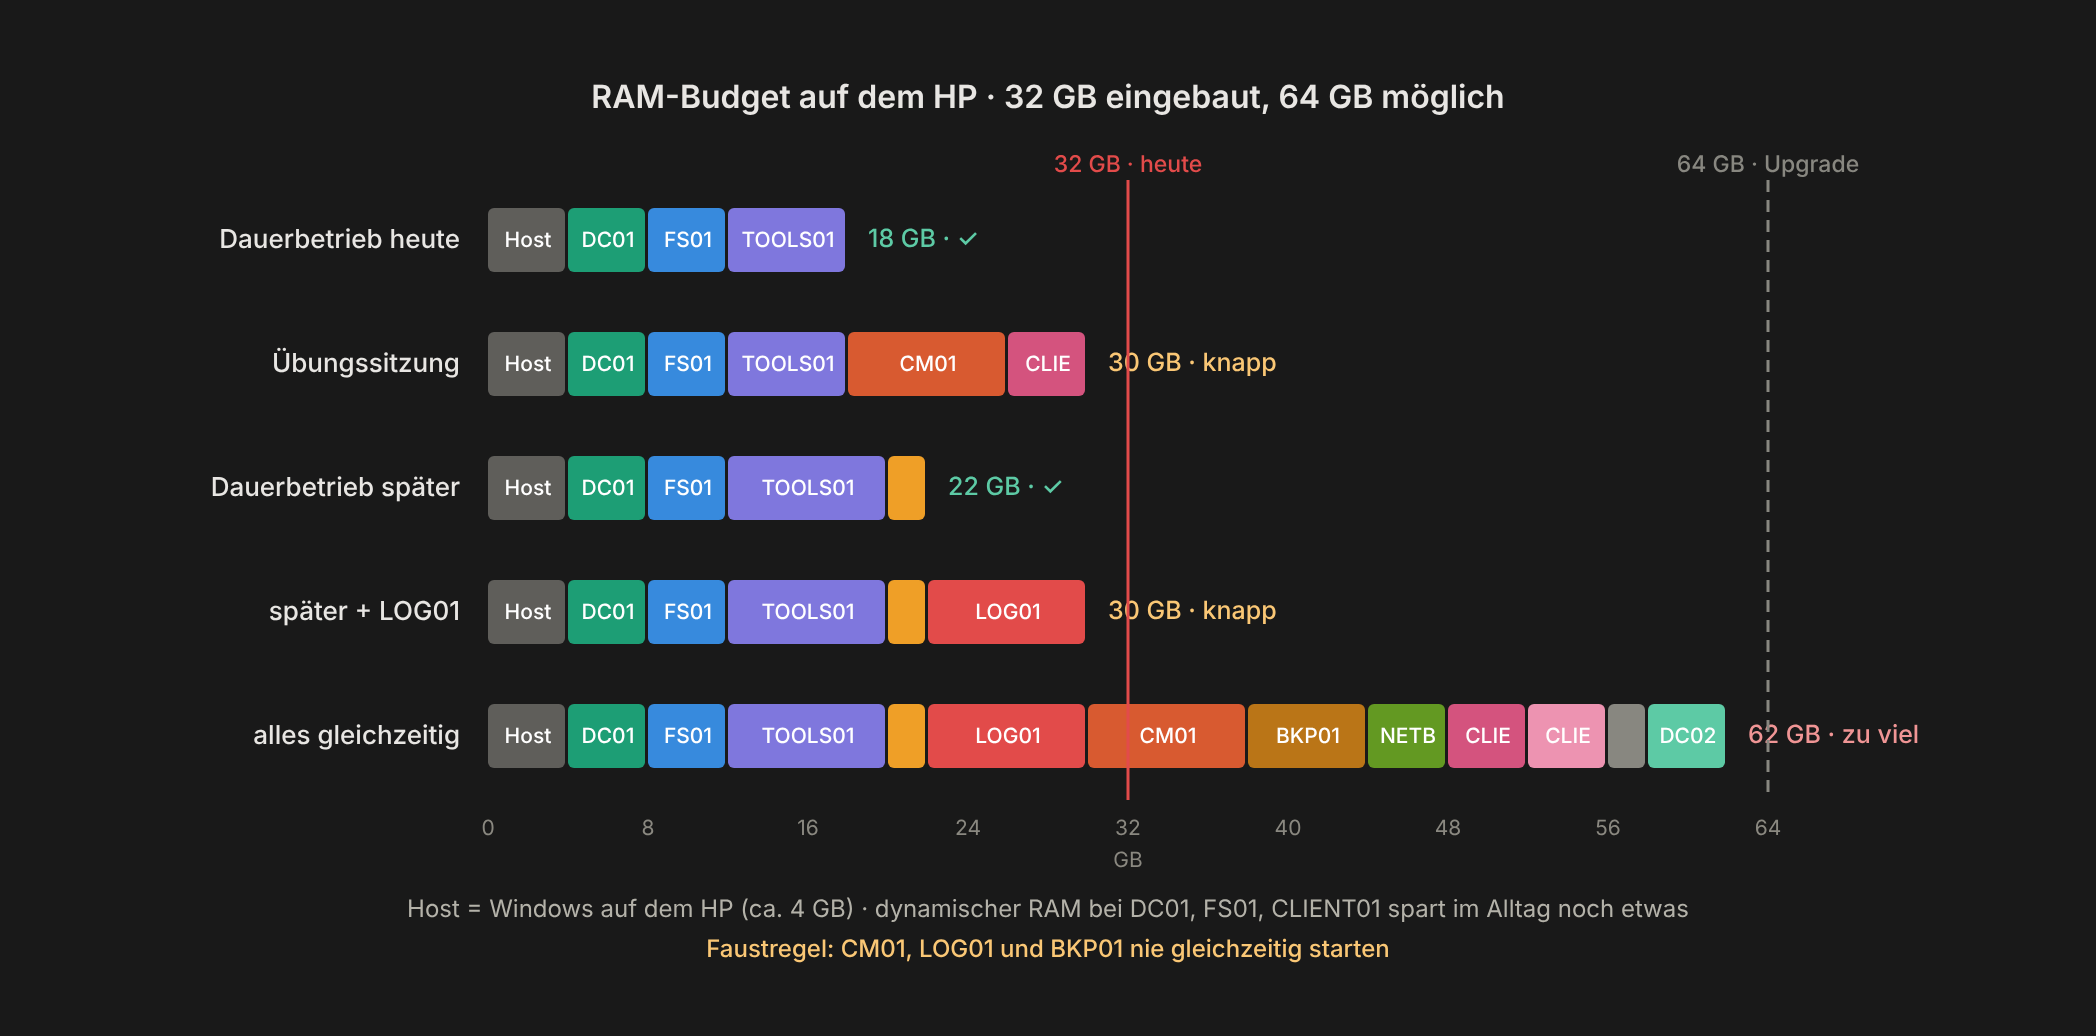
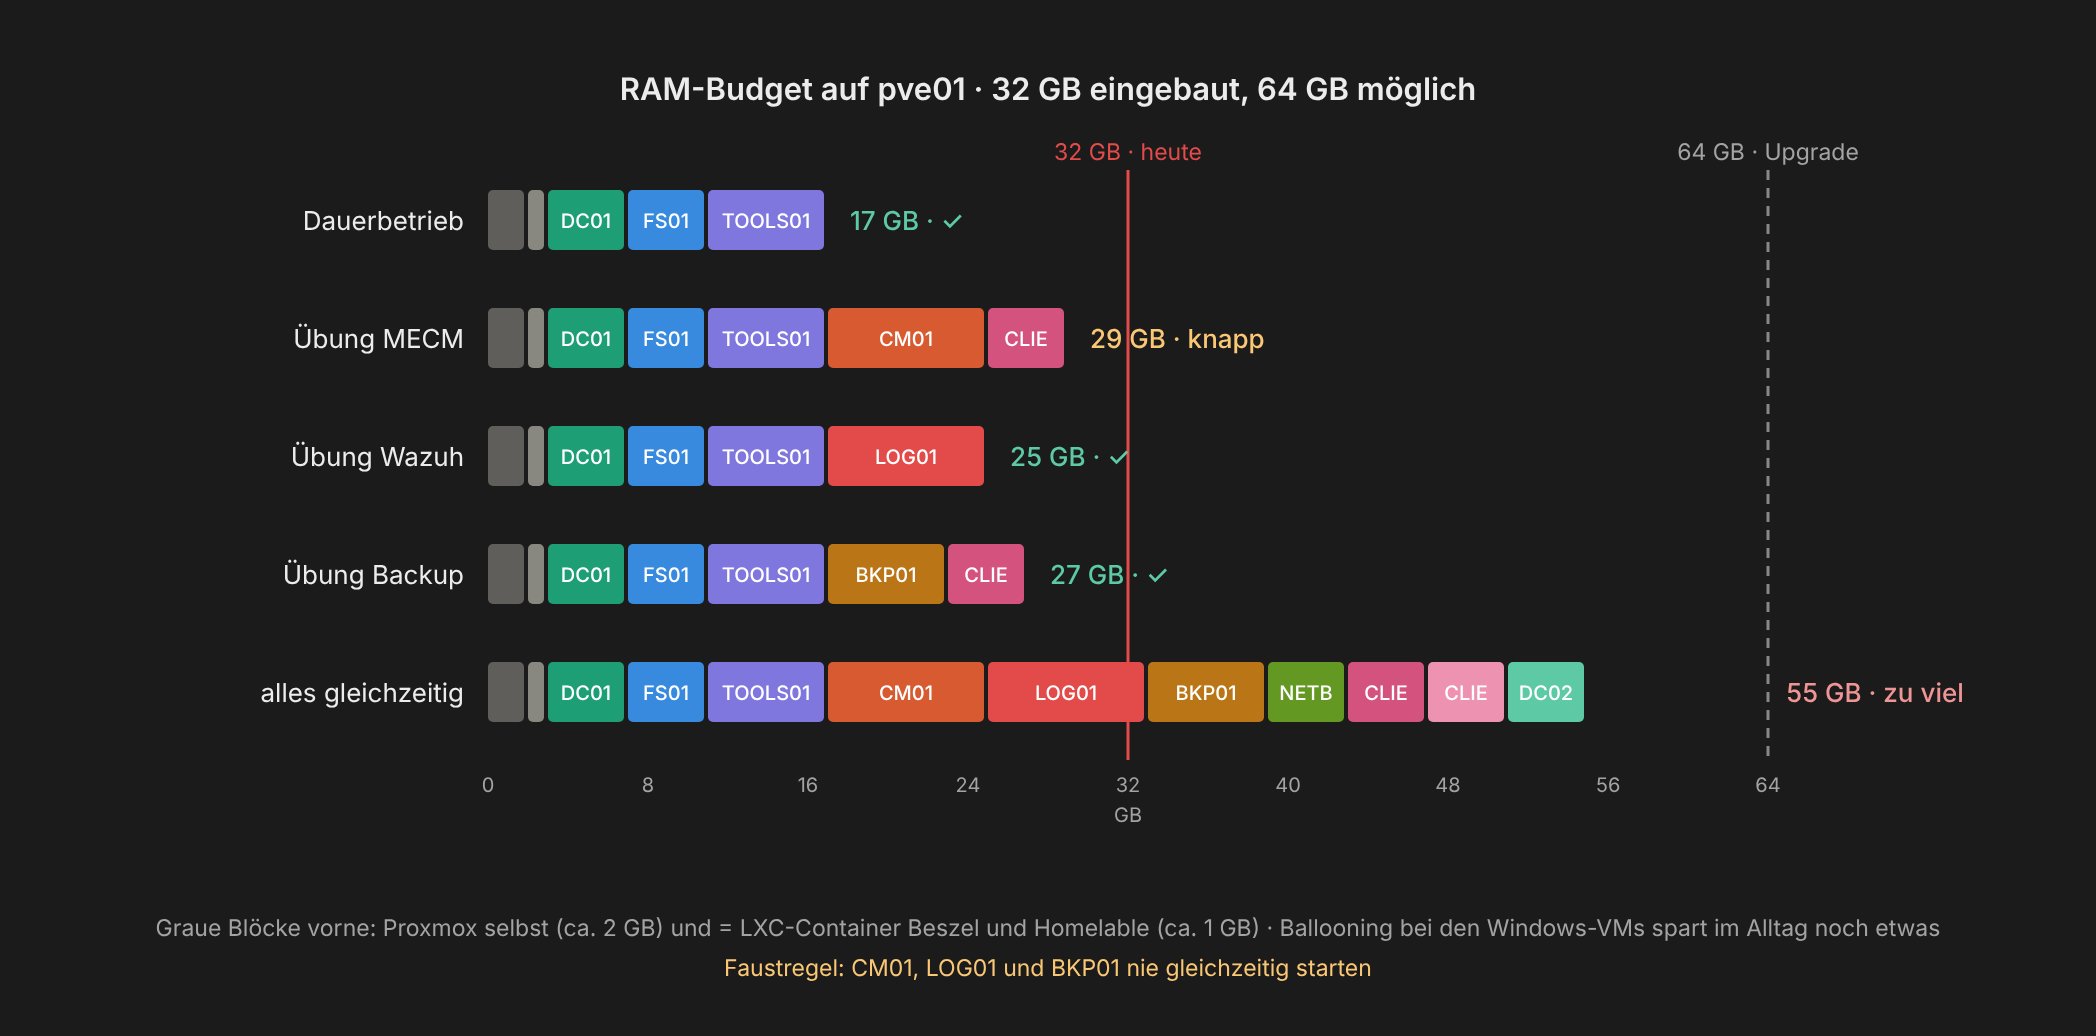
Durchsicht: Grafiken RAM-Budget und Roadmap aktualisiert, Aufbau um pve01 ergänzt
Claude-Session: https://claude.ai/code/session_01Atb4FnopoaXQEJf14kN2RZ

diff --git a/docs/roadmap.md b/docs/roadmap.md
@@ -7,7 +7,7 @@ Jede Stufe baut auf der vorherigen auf: Vorlagen vor neuen Servern, Backup vor r
 | # | Ausbaustufe | Neue VM | Status |
 |---|---|---|---|
 | 0 | Umzug auf Mini-PC im 10-Zoll-Rack | – | Rack, Switch und Proxmox auf dem Mini-PC ✅ ([Kapitel 15](anleitung/15-proxmox-host.md)), VM-Umzug folgt |
-| 1 | Monitoring (Uptime Kuma, Netdata) | – | ✅ |
+| 1 | Monitoring (Uptime Kuma, Netdata, Beszel) | – | ✅ (Beszel seit 21.10.) |
 | 2 | Reverse Proxy und DNS-Namen | – | ✅ |
 | 3 | Infisical für Kennwörter | – | wieder entfernt, KeePassXC reicht |
 | 4 | Quick Wins (AD-Papierkorb, Lizenzdaten, Monitore) | – | teilweise |
@@ -26,7 +26,7 @@ Jede Stufe baut auf der vorherigen auf: Vorlagen vor neuen Servern, Backup vor r
 
 ## Hardware
 
-Das Lab zieht auf einen eigenen Mini-PC in einem 10-Zoll-Rack um. Rack und Switch stehen seit dem 19.10.2026, auf dem Mini-PC läuft seit dem 21.10.2026 Proxmox VE. Als Nächstes ziehen die Hyper-V-VMs um. Belegung, Verkabelung und Switch-Einrichtung: [Hardware](hardware.md). So reicht der Arbeitsspeicher auf dem Mini-PC:
+Das Lab zieht auf einen eigenen Mini-PC in einem 10-Zoll-Rack um. Rack und Switch stehen seit dem 19.10.2026, auf dem Mini-PC läuft seit dem 21.10.2026 Proxmox VE. Als Nächstes ziehen die Hyper-V-VMs um. Belegung, Verkabelung und Switch-Einrichtung: [Hardware](hardware.md). So reicht der Arbeitsspeicher auf dem Mini-PC, wenn die VMs umgezogen sind:
 
 ![RAM-Budget](diagramme/ram-budget.png)
 

diff --git a/README.md b/README.md
@@ -45,6 +45,7 @@ Ich habe dieses Lab als Junior Admin aufgebaut, um Alltagsaufgaben aus der Firma
 - MECM mit Client-Push und Softwareverteilung auf den Windows-11-Client
 - Sicherheitsüberwachung mit Wazuh: Fehlanmeldungen und neue Konten werden gemeldet
 - Optional: Uptime Kuma, Netdata, Nginx Proxy Manager, NetBox, Warpgate und eine Netzwerkkarte mit Live-Status (Homelable auf Proxmox)
+- Optional: Umzug auf einen sparsamen Mini-PC mit Proxmox im 10-Zoll-Rack, Monitoring mit Beszel, Fernzugriff über Tailscale
 
 **So sind die Kapitel aufgebaut:** Ziel und Dauer · nummerierte Schritte mit Angabe, auf welchem Rechner du gerade bist · Prüfen · häufige Fehler. Über 50 Screenshots stammen direkt aus dem Lab. Gearbeitet wird überwiegend mit der Oberfläche, PowerShell nur dort, wo es deutlich schneller ist.
 
@@ -57,7 +58,7 @@ Ich habe dieses Lab als Junior Admin aufgebaut, um Alltagsaufgaben aus der Firma
 
 | Komponente | Version |
 |---|---|
-| Hyper-V-Host | Windows 11 mit Hyper-V (ab Pro), 64 GB RAM |
+| Hyper-V-Host (Kapitel 0–14) | Windows 11 mit Hyper-V (ab Pro), 64 GB RAM |
 | Server | Windows Server 2025 Evaluation, englische Oberfläche |
 | Client | Windows 11, deutsche Oberfläche |
 | MECM | Configuration Manager Current Branch, Build 9141 |

diff --git a/docs/aufbau.md b/docs/aufbau.md
@@ -33,6 +33,16 @@
 | HOMELABLE | 10.0.0.91 | LXC auf PVE01 (Debian 13) | [Homelable](anleitung/14-homelable.md): Netzwerkkarte mit Live-Status | immer an |
 | CLIENT01 | DHCP | Windows 11 Pro | Testclient | bei Bedarf |
 
+**Mini-PC im Heimnetz** ([Kapitel 15](anleitung/15-proxmox-host.md)):
+
+| Gerät | IP | OS | Aufgabe | Betrieb |
+|---|---|---|---|---|
+| pve01 | 192.168.2.20 | Proxmox VE 9.2 auf HP EliteDesk 805 G6 Mini | Hypervisor, Beszel-Agent, Tailscale Subnet Router | immer an |
+| beszel | 192.168.2.21 | LXC auf pve01 | Monitoring-Hub ([Beszel](anleitung/15-proxmox-host.md#schritt-6--monitoring-mit-beszel-browser)) | immer an |
+| Switch | 192.168.2.10 | TL-SG108E | Managed Switch im Rack ([Hardware](hardware.md)) | immer an |
+
+Die VMs oben ziehen nach und nach aus Hyper-V auf pve01 um.
+
 **Startreihenfolge:** DC01 → CM01, FS01, NETBOX01, TOOLS01 → CLIENT01. Herunterfahren umgekehrt, DC01 zuletzt. Ohne DC01 gibt es kein DNS, und die anderen VMs laufen in Fehler.
 
 **Arbeitsspeicher:** Windows-VMs dynamisch, Linux-VMs und CM01 (SQL Server) fest. Siehe [Entscheidungen](entscheidungen.md).

diff --git a/docs/changelog.md b/docs/changelog.md
@@ -4,6 +4,7 @@
 - Neues [Kapitel 15 · Proxmox auf eigener Hardware](anleitung/15-proxmox-host.md) mit Screenshots und zwei Grafiken (Überblick, Speicher): Aufrüsten, Installation, Paketquellen, Speicher, Beszel, Tailscale
 - Die Proxmox-Abschnitte aus [Hardware](hardware.md) sind ins Kapitel umgezogen
 - [Entscheidungen](entscheidungen.md): Proxmox statt Hyper-V auf dem Mini-PC, Speicheraufteilung, Beszel, Tailscale
+- Grafiken RAM-Budget (jetzt mit Proxmox statt Windows-Host) und Roadmap (aktueller Status) neu, [Aufbau](aufbau.md) um pve01 und beszel ergänzt
 - Erste Nacht im Dauerbetrieb: pve01 stabil, CPU im Leerlauf ca. 36 °C, Tailscale-Zugriff übers Handy getestet
 
 ## 2026-10-21
